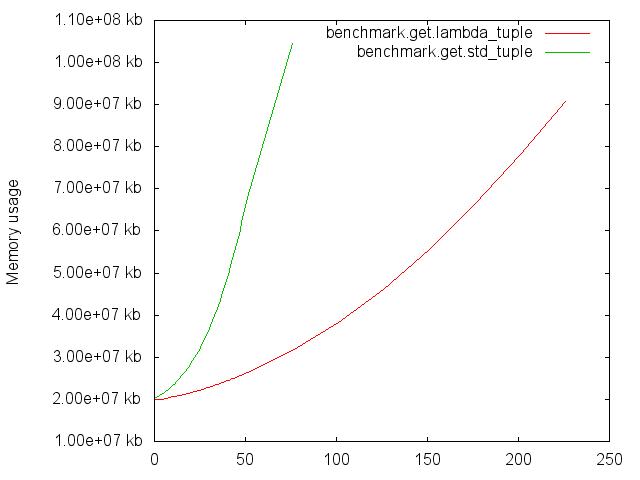
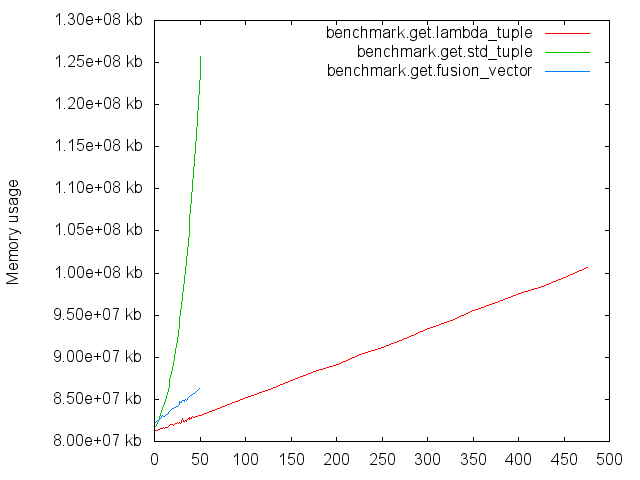
Benchmark Fusion vector

diff --git a/code/benchmark/tuple_transform.cpp b/code/benchmark/tuple_transform.cpp
@@ -11,7 +11,11 @@ struct x { };
 
 int main() {
     <% if no_bias %>
-        other::make_tuple(
+        other1::make_tuple(
+            <%= (1..n_elements).to_a.map{ |i| "x<#{i}>{}" }.join(',') %>
+        );
+
+        other2::make_tuple(
             <%= (1..n_elements).to_a.map{ |i| "x<#{i}>{}" }.join(',') %>
         );
     <% end %>

diff --git a/code/fusion_vector.hpp b/code/fusion_vector.hpp
@@ -4,6 +4,7 @@
 #ifndef FUSION_VECTOR_HPP
 #define FUSION_VECTOR_HPP
 
+#define FUSION_MAX_VECTOR_SIZE 50
 #include <boost/fusion/include/at_c.hpp>
 #include <boost/fusion/include/for_each.hpp>
 #include <boost/fusion/include/join.hpp>
